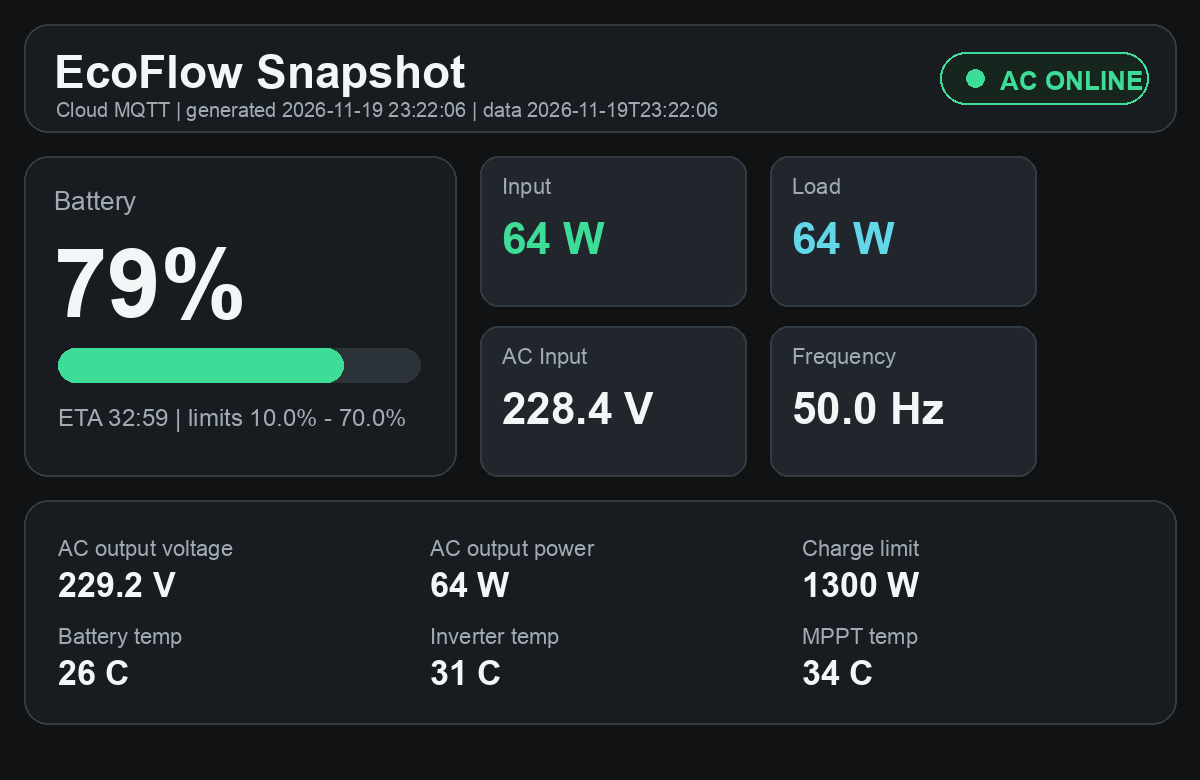
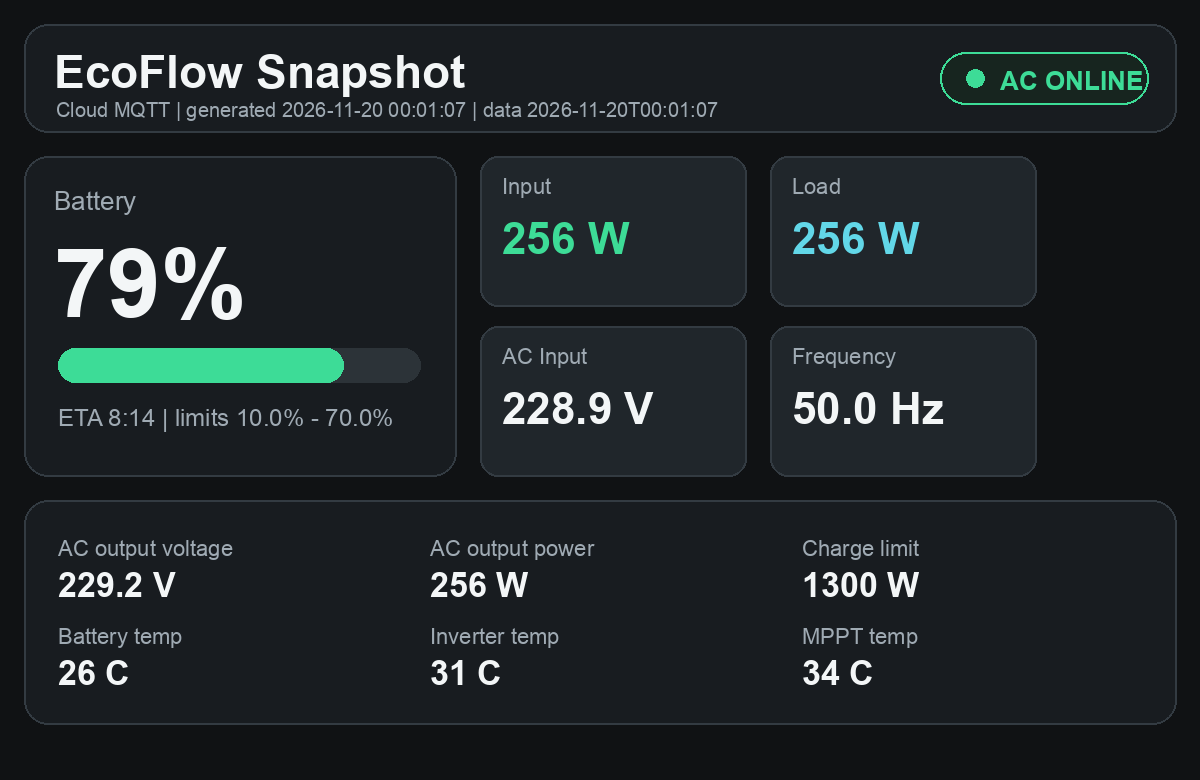
Update EcoFlow dashboard 2026-11-20 00:01:07

diff --git a/index.html b/index.html
@@ -177,7 +177,7 @@
   <header>
     <div>
       <h1>EcoFlow Snapshot</h1>
-      <div class="sub">Cloud MQTT · generated 2026-11-19T23:22:06 · data 2026-11-19T23:22:06</div>
+      <div class="sub">Cloud MQTT · generated 2026-11-20T00:01:07 · data 2026-11-20T00:01:07</div>
     </div>
     <div class="status online"><span class="dot"></span><span>AC online</span></div>
   </header>
@@ -189,20 +189,20 @@
       <h2>Battery</h2>
       <div class="value">79%</div>
       <div class="battery"><div class="fill"></div></div>
-      <div class="row"><span>ETA</span><span>32:59</span></div>
+      <div class="row"><span>ETA</span><span>8:14</span></div>
       <div class="row"><span>SOC limits</span><span>10.0% - 70.0%</span></div>
     </section>
     <section>
       <h2>AC</h2>
-      <div class="row"><span>Input voltage</span><span>228.4 V</span></div>
+      <div class="row"><span>Input voltage</span><span>228.9 V</span></div>
       <div class="row"><span>Input frequency</span><span>50.0 Hz</span></div>
       <div class="row"><span>Output voltage</span><span>229.2 V</span></div>
     </section>
   </div>
 
   <div class="cards">
-    <div class="card"><span class="label">Input</span><span class="value">64 W</span></div>
-    <div class="card"><span class="label">Load</span><span class="value">64 W</span></div>
+    <div class="card"><span class="label">Input</span><span class="value">256 W</span></div>
+    <div class="card"><span class="label">Load</span><span class="value">256 W</span></div>
     <div class="card"><span class="label">Battery temp</span><span class="value">26°C</span></div>
     <div class="card"><span class="label">Inverter temp</span><span class="value">31°C</span></div>
   </div>
@@ -212,13 +212,13 @@
       <h2>Останні 24 години</h2>
       <div class="daily-grid">
         <div class="daily-item"><span class="label">Напруга min / max</span><strong>221 V / 230 V</strong><small>19.11 09:25 / 19.11 13:15</small></div>
-        <div class="daily-item"><span class="label">SOC min / max</span><strong>78% / 80%</strong><small>19.11 06:22 / 18.11 23:43</small></div>
-        <div class="daily-item"><span class="label">Пік навантаження</span><strong>68 W</strong><small>19.11 19:57</small></div>
-        <div class="daily-item"><span class="label">Зарядний ліміт</span><strong>1300 W</strong><small>пік входу 68 W · 5% ліміту</small></div>
+        <div class="daily-item"><span class="label">SOC min / max</span><strong>78% / 80%</strong><small>19.11 06:22 / 19.11 00:09</small></div>
+        <div class="daily-item"><span class="label">Пік навантаження</span><strong>256 W</strong><small>20.11 00:01</small></div>
+        <div class="daily-item"><span class="label">Зарядний ліміт</span><strong>1300 W</strong><small>пік входу 256 W · 20% ліміту</small></div>
         <div class="daily-item"><span class="label">Заряджання</span><strong>0 сек</strong><small>--</small></div>
         <div class="daily-item"><span class="label">Розряджання</span><strong>0 сек</strong><small>--</small></div>
         <div class="daily-item"><span class="label">Енергія вхід / вихід</span><strong>101 Wh / 101 Wh</strong><small>оцінка за sample-ами</small></div>
-        <div class="daily-item"><span class="label">Частота min / max</span><strong>50.0 Hz / 50.0 Hz</strong><small>18.11 23:43 / 18.11 23:43</small></div>
+        <div class="daily-item"><span class="label">Частота min / max</span><strong>50.0 Hz / 50.0 Hz</strong><small>19.11 00:09 / 19.11 00:09</small></div>
       </div>
     </section>
     
@@ -249,24 +249,24 @@
   &quot;ok&quot;: true,
   &quot;source&quot;: &quot;Cloud MQTT&quot;,
   &quot;device&quot;: &quot;DELTA Pro&quot;,
-  &quot;timestamp&quot;: &quot;2026-11-19T23:22:06&quot;,
+  &quot;timestamp&quot;: &quot;2026-11-20T00:01:07&quot;,
   &quot;grid&quot;: true,
   &quot;battery&quot;: {
     &quot;soc&quot;: 79,
     &quot;min&quot;: 10.0,
     &quot;max&quot;: 70.0,
-    &quot;eta&quot;: &quot;32:59&quot;
+    &quot;eta&quot;: &quot;8:14&quot;
   },
   &quot;power&quot;: {
-    &quot;in&quot;: 64,
-    &quot;out&quot;: 64,
-    &quot;acOut&quot;: 64,
+    &quot;in&quot;: 256,
+    &quot;out&quot;: 256,
+    &quot;acOut&quot;: 256,
     &quot;chargeLimit&quot;: 1300
   },
   &quot;ac&quot;: {
-    &quot;inputVoltage&quot;: 228.417,
+    &quot;inputVoltage&quot;: 228.917,
     &quot;inputFreq&quot;: 50.0,
-    &quot;outputVoltage&quot;: 229.223
+    &quot;outputVoltage&quot;: 229.228
   },
   &quot;temps&quot;: {
     &quot;battery&quot;: 26,
@@ -392,15 +392,15 @@
   &quot;telemetry&quot;: {
     &quot;window&quot;: &quot;24h&quot;,
     &quot;sample_count&quot;: 60,
-    &quot;from&quot;: &quot;2026-11-18T23:43:58&quot;,
-    &quot;to&quot;: &quot;2026-11-19T23:22:06&quot;,
+    &quot;from&quot;: &quot;2026-11-19T00:09:12&quot;,
+    &quot;to&quot;: &quot;2026-11-20T00:01:07&quot;,
     &quot;latest&quot;: {
       &quot;mode&quot;: &quot;idle&quot;,
       &quot;grid&quot;: true,
       &quot;soc&quot;: 79.0,
-      &quot;ac_v&quot;: 228.417,
-      &quot;in_w&quot;: 64.0,
-      &quot;out_w&quot;: 64.0,
+      &quot;ac_v&quot;: 228.917,
+      &quot;in_w&quot;: 256.0,
+      &quot;out_w&quot;: 256.0,
       &quot;charge_limit_w&quot;: 1300.0
     },
     &quot;voltage&quot;: {
@@ -414,11 +414,11 @@
       },
       &quot;frequency_min&quot;: {
         &quot;value&quot;: 50.0,
-        &quot;ts&quot;: &quot;2026-11-18T23:43:58&quot;
+        &quot;ts&quot;: &quot;2026-11-19T00:09:12&quot;
       },
       &quot;frequency_max&quot;: {
         &quot;value&quot;: 50.0,
-        &quot;ts&quot;: &quot;2026-11-18T23:43:58&quot;
+        &quot;ts&quot;: &quot;2026-11-19T00:09:12&quot;
       }
     },
     &quot;soc&quot;: {
@@ -428,26 +428,26 @@
       },
       &quot;max&quot;: {
         &quot;value&quot;: 80.0,
-        &quot;ts&quot;: &quot;2026-11-18T23:43:58&quot;
+        &quot;ts&quot;: &quot;2026-11-19T00:09:12&quot;
       }
     },
     &quot;power&quot;: {
       &quot;max_load&quot;: {
-        &quot;value&quot;: 68.0,
-        &quot;ts&quot;: &quot;2026-11-19T19:57:06&quot;
+        &quot;value&quot;: 256.0,
+        &quot;ts&quot;: &quot;2026-11-20T00:01:07&quot;
       },
       &quot;max_input&quot;: {
-        &quot;value&quot;: 68.0,
-        &quot;ts&quot;: &quot;2026-11-19T19:57:06&quot;
+        &quot;value&quot;: 256.0,
+        &quot;ts&quot;: &quot;2026-11-20T00:01:07&quot;
       },
       &quot;max_ac_output&quot;: {
-        &quot;value&quot;: 68.0,
-        &quot;ts&quot;: &quot;2026-11-19T19:57:06&quot;
+        &quot;value&quot;: 256.0,
+        &quot;ts&quot;: &quot;2026-11-20T00:01:07&quot;
       },
       &quot;charge_limit_w&quot;: 1300.0,
-      &quot;max_input_pct_of_current_limit&quot;: 5,
-      &quot;input_wh_est&quot;: 100.6,
-      &quot;load_wh_est&quot;: 100.6
+      &quot;max_input_pct_of_current_limit&quot;: 20,
+      &quot;input_wh_est&quot;: 100.8,
+      &quot;load_wh_est&quot;: 100.8
     },
     &quot;modes&quot;: {
       &quot;charging_sec&quot;: 0,
